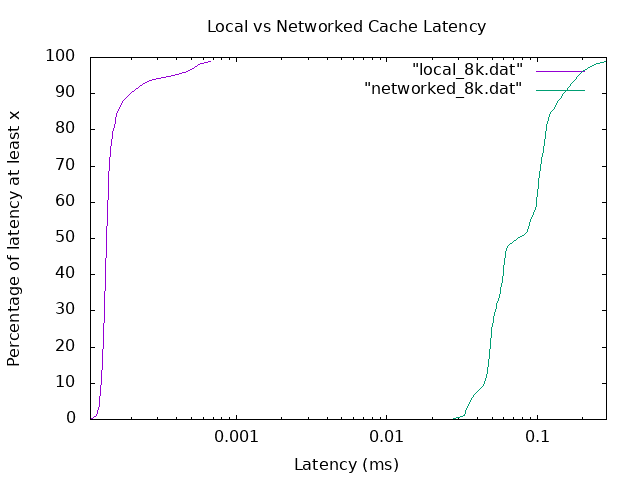
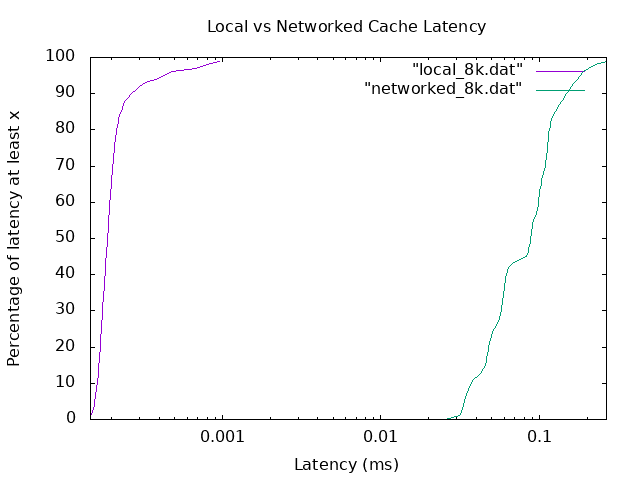
redid local graph

diff --git a/driver_test.cc b/driver_test.cc
@@ -10,10 +10,11 @@ const int CACHE_SIZE = 8192;
 const int TRIALS = 1000000;
 Generator gen = Generator(8, 0.2, CACHE_SIZE, 8);
 
-// auto test_cache = Cache("127.0.0.1", "42069"); //Add the appropriate params here once chosen
-//FifoEvictor fifo_evictor = FifoEvictor();
-//Evictor* evictor = &fifo_evictor;
-auto test_cache = Cache(CACHE_SIZE, 0.75); //Add the appropriate params here once chosen
+auto test_cache = Cache("127.0.0.1", "42069"); //Add the appropriate params here once chosen
+
+// FifoEvictor fifo_evictor = FifoEvictor();
+// Evictor* evictor = &fifo_evictor;
+// auto test_cache = Cache(CACHE_SIZE, 0.75, evictor); //Add the appropriate params here once chosen
 
 Cache::size_type size;
 auto driver = Driver(&test_cache, gen);

diff --git a/README.md b/README.md
@@ -1,7 +1,7 @@
 Jon Takagi and Eli Poppele
 
 ## Benchmarking!
-We have moved our old cache files to a subfolder for this project; everything can still be compiled with the makefile. We use `driver_test.cc` (compiling to `test_driver.bin`) to both test some features and call both of our baseline functions, outputting data to .dat files to then be graphed. 
+We have moved our old cache files to a subfolder for this project; everything can still be compiled with the makefile. We use `driver_test.cc` (compiling to `test_driver.bin`) to both test some features and call both of our baseline functions, outputting data to .dat files to then be graphed.
 
 ### Workload Generator
 Our workload generator is implemented by the Generator class in `gen.hh` and `gen.cc`. This class has a single method, along with a constructor (a bit complicated) and a destructor (basic/empty implementation). The generator tries to create a similar workload to the ETC cache from the paper. It uses a struct, `Request`, as a return type to pass to the benchmark/driver program.
@@ -13,7 +13,7 @@ To create a key, the constructor draws from a normal integer distribution with m
 
 To create a value, we have used three distributions to approximate what is shown in the paper. This created a value size distribution that is at least pretty close to the given one. We first select a percent value (0-100) from a uniform integer distributuion. Then, working from the second graph in figure 2, we use a low distribution for the first 40%, medium for the next 50%, and high for the last 10%. As both low and high appear as roughly linear on the logarithmic CDF graph, this means they have a CDF following an exponential distribution. Since our attempts to use the boost distributions failed, we approximate an exponential distribution by taking the absolute value of normal distributions (effectively half of a bell curve, with double the height at each point). The low distribution starts at 2 and tails down to 10 bytes with low probability (~3 standard deviations, and the value is clamped at this maximum), while the high distribution starts at 500 and similarly tails off to 5000 bytes. The medium distribution appears exponential on the logarithmic CDF graph, so it seems reasonable that its normal CDF graph is linear, and thus it is modeled as a normal distribution of integers from 10 to 500. Since the actual content of values does not matter, we simply generate and store this size value, and later create an actual value by repeating the character "B" an appropriate number of times.
 
-Finally, to select a probability, we generate another percentage and run it through the function `prob = (int)(1000)/((p+1)^2.3)`. This function then returns high probability (1000) for the top 1% of keys, low probability (4) for the bottom 90% of keys, and very unlikely probability (0.1%) for the bottom 50% of keys. This models the given key distribution from the paper, where the top 1% of keys made up 50% of requests, the top 10% made up 90% of requests, and the top 50% made up more than 99% of requests. If you sum the values generated by this function over one of those given distributions, they make up a similar percentage of the sum over all values (0-100) of the function. The probability given to a key is directly correlated to how likely it is to be used in a request. A key with probability 500 is then 50 times more likely to be used than a key with probability 10. The implementation for this selection appears in the `gen_req` function. 
+Finally, to select a probability, we generate another percentage and run it through the function `prob = (int)(1000)/((p+1)^2.3)`. This function then returns high probability (1000) for the top 1% of keys, low probability (4) for the bottom 90% of keys, and very unlikely probability (0.1%) for the bottom 50% of keys. This models the given key distribution from the paper, where the top 1% of keys made up 50% of requests, the top 10% made up 90% of requests, and the top 50% made up more than 99% of requests. If you sum the values generated by this function over one of those given distributions, they make up a similar percentage of the sum over all values (0-100) of the function. The probability given to a key is directly correlated to how likely it is to be used in a request. A key with probability 500 is then 50 times more likely to be used than a key with probability 10. The implementation for this selection appears in the `gen_req` function.
 
 The `data_` vector is then shuffled at the end of the constructor, as position in the vector will imply temporal locality and we want this to be random.
 
@@ -25,12 +25,12 @@ To add temporal locality to our data, we have use two parameters and keep track 
 To actually select a tuple at random, we select some target probability, between zero and `total_prob_/locality_range_`. While this doesn't necessarily match up with the actual total of probabilities over our current locality range, it is statistically close. We then iterate over the tuples in our current range, adding their probability to a running sum. Once some probability causes our sum to exceed or equal the target, we take that tuple and use it to return a request. In this way, we give proportionally higher chances to tuples that have a higher probability value. Once we have selected a tuple, we return it's value size and key, along with a randomly selected method (using a simple ratio of 20 gets : 9 deletes : 1 set). However, if we are returning a delete, we will 8 out of 9 times have it use a non-existent key, so that we can maintain a roughly full cache throughout our `gen_req` calls.
 
 #### Hitrate
-With a cache size of 8192, we found that a `locality_range_` of 8, a `locality_shift_` of 0.2, and a `size_factor_` of 8 got us close to an 80% hitrate. We test this in `driver_test.cc`, first warming the cache and then making one thousand get requests. The hitrate is highly variable for each new cache and the results of warming it; the reasons for this are unclear, but we tried to work around this by taking the average of 100 caches, cleared and warmed each time. This returns a hitrate of about the correct range.
+With a cache size of 8192, we found that a `locality_range_` of 8, a `locality_shift_` of 0.2, and a `size_factor_` of 8 got us close to an 80% hitrate. We test this in `driver_test.cc`, first warming the cache and then making 1 million get requests. The hitrate is highly variable for each new cache and the results of warming it.
 
 ### Driver
 We have implemented our benchmark program in the driver files, `driver.hh` and `driver.cc`. This class takes a generator and a cache, and applies the requests generated to the cache. It has three main functions: `warm`, `baseline_latencies`, and `baseline_performance`.
 
-`warm` simply makes a given number of set requests to the cache. We find that using a number close to or greater than the size of the cache usually works to fill it; while most values set are much larger than 1 bytes, most are also called many times in one instance of `warm`, so we need many calls to get the cache close to full. 
+`warm` generates work using the generator. It only runs the `set` requests to save time. It continues to generate work until the total space used by the cache exceeds its argument.
 
 `baseline_latencies` works essentially as described in the project writeup, getting one request from the generator, then timing the latency of that request to the cache and recording it in the vector. `baseline_performance` similarly works as described.
 
@@ -38,7 +38,7 @@ Using our standard parameters (8KB of memory on a networked cache), we had a 95t
 ![Standard Latency](/latency&#32;8KB&#32;networked.png)
 
 ### Sensitivity Testing
-For testing, we chose to test underlying architecture, local clients, maximum memory size, and maximum load factor. We present the data for these changes in the same graph format as that of the standard test above. 
+For testing, we chose to test underlying architecture, local clients, maximum memory size, and maximum load factor. We present the data for these changes in the same graph format as that of the standard test above.
 
 For underlying architecture, we ran the networked 8KB test on a different computer, running linux natively as opposed to in a virtual machine. In this case, we could only test this one alternative, so the result is shown in the graph below. Although this second machine is generally slower (we believe) it seems to have an advantage in a native installation as opposed to a virtual machine.
 ![Native Linux Latency](/Eli_latency.png)
@@ -51,5 +51,3 @@ For maximum memory size, we used a networked cache with half (4KB) and double (1
 
 For maximum load factor, we tested a load factor of 0.50 and 0.90. These are shown together, with the standard value of 0.75, in the graph below. Curiously, we found both changes to be better than our standard value, although 0.90 was significantly so.
 ![Load Factor](/load_factor.png)
-
-
